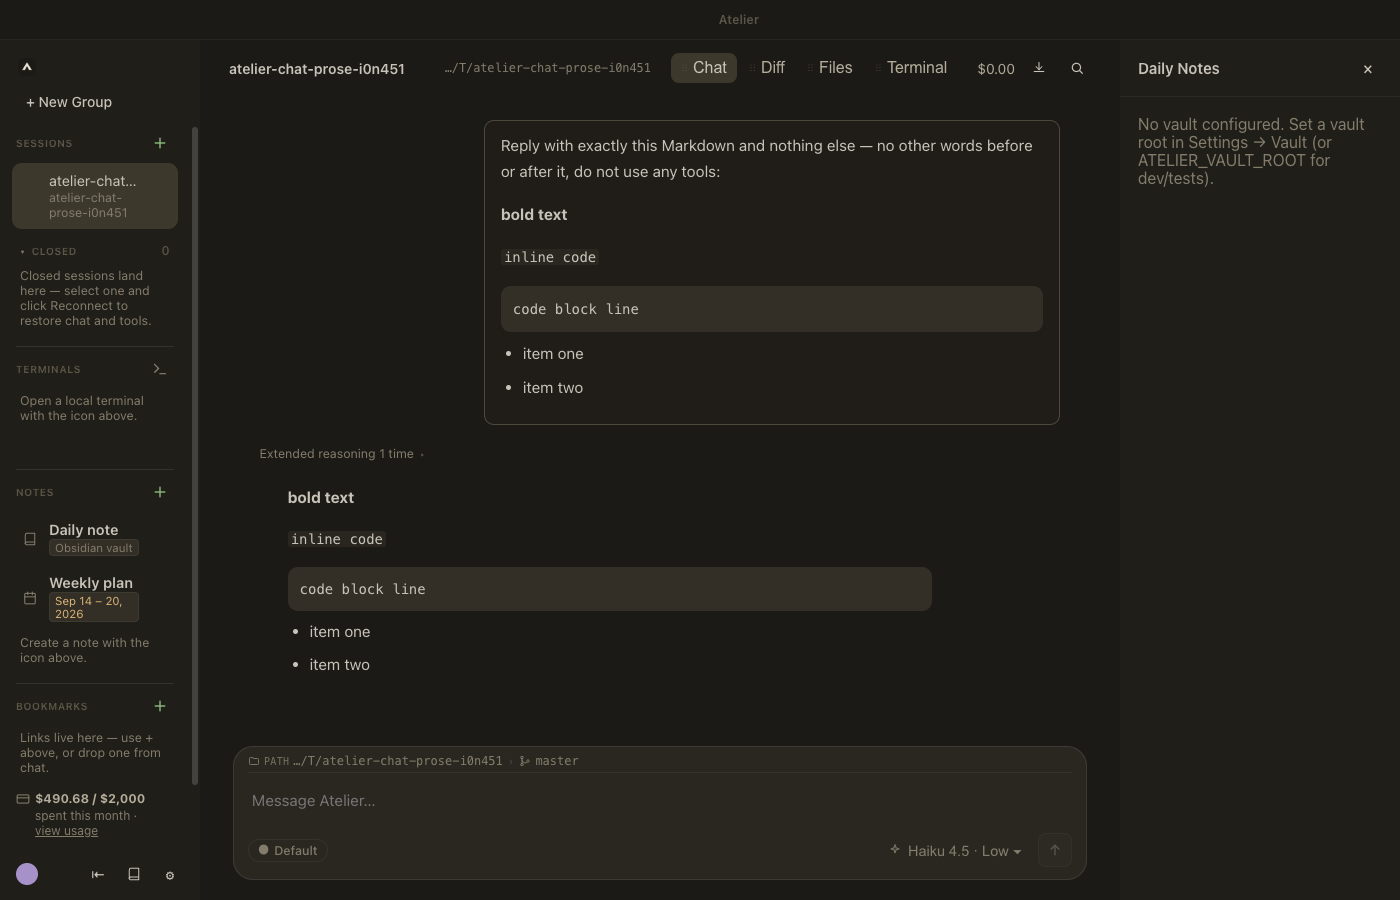
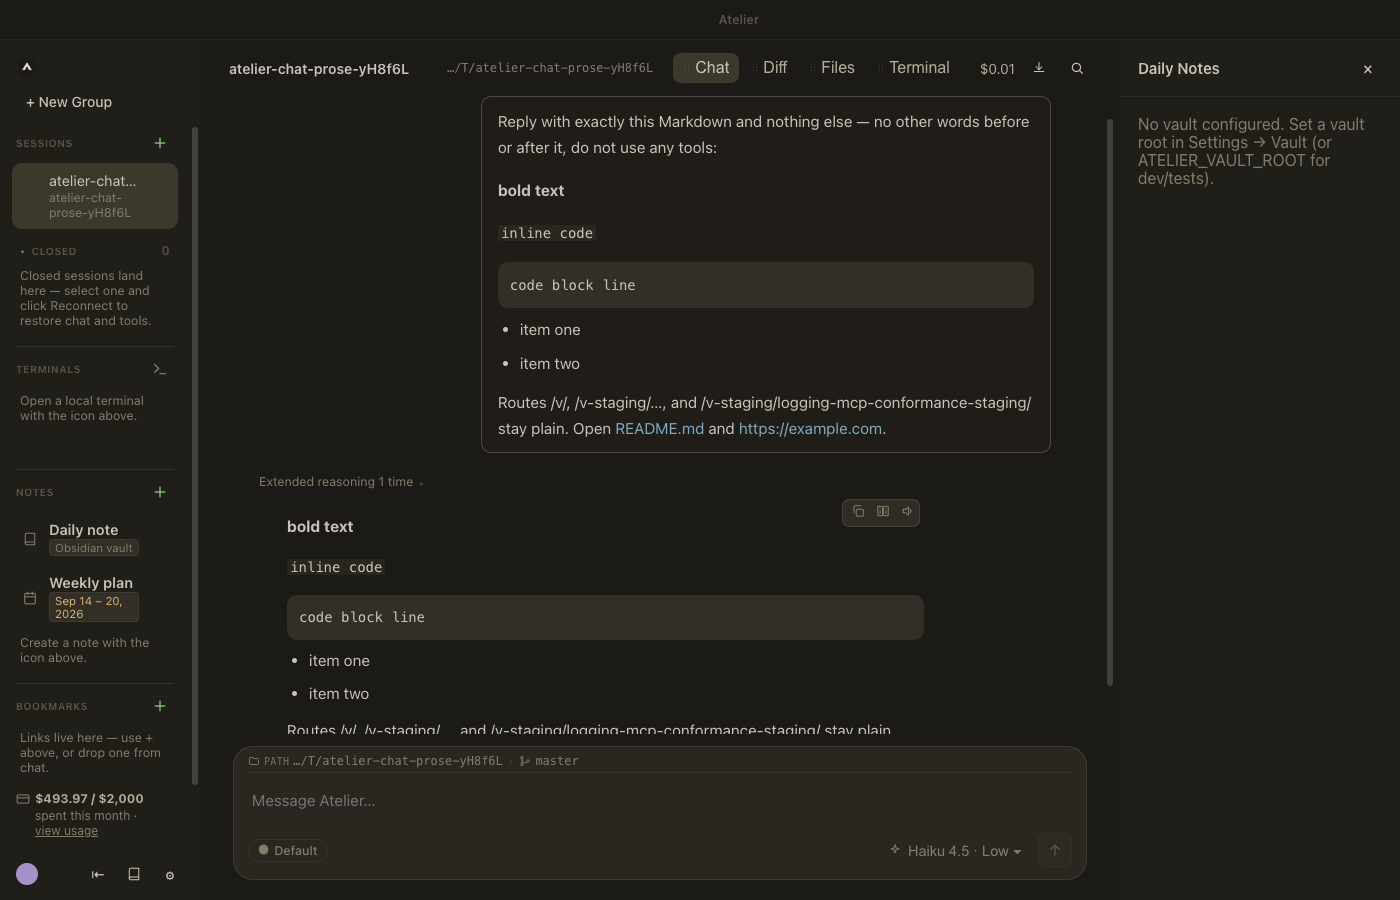
Link only openable files and web URLs in chat, in blue.
Route fragments like /v-staging were treated as workspace paths and rendered as green file links. Require a resolvable inventory path (or a home/absolute file with an extension) before linking, keep http(s) URLs, and style those links with --info plus hover underline.

diff --git a/src/renderer/src/components/chat/file-path-links.ts b/src/renderer/src/components/chat/file-path-links.ts
@@ -72,9 +72,17 @@ export function sessionFileLinkWorkspaceRoot(session: {
   return session.worktreePath ?? session.projectPath
 }
 
+type CandidateTreeNode = {
+  path: string
+  relativePath: string
+  type: 'file' | 'dir'
+  children?: readonly CandidateTreeNode[]
+}
+
 export function collectFilePathCandidates(sources: {
   capPaths?: readonly string[]
   filesList?: readonly { path: string; relativePath: string }[]
+  filesTree?: readonly CandidateTreeNode[]
   diffPaths?: readonly string[]
 }): string[] {
   const out: string[] = []
@@ -90,6 +98,16 @@ export function collectFilePathCandidates(sources: {
     add(e.path)
     add(e.relativePath)
   }
+  const addTreeFiles = (nodes: readonly CandidateTreeNode[]): void => {
+    for (const node of nodes) {
+      if (node.type === 'file') {
+        add(node.path)
+        add(node.relativePath)
+      }
+      if (node.children?.length) addTreeFiles(node.children)
+    }
+  }
+  addTreeFiles(sources.filesTree ?? [])
   for (const p of sources.diffPaths ?? []) add(p)
   return out
 }
@@ -137,6 +155,42 @@ export function resolveSessionFilePath(
     if (match) return joinToWorkspaceRoot(match, workspaceRoot)
   }
   return joinToWorkspaceRoot(trimmed, workspaceRoot)
+}
+
+function normalizeComparablePath(path: string): string {
+  return path.replace(/\\/g, '/').replace(/\/+$/, '').replace(/^\.\//, '')
+}
+
+/**
+ * Resolve a file mention only when the session's real file inventory proves
+ * the target exists. Deriving every slash-prefixed string from the workspace
+ * root turns URL routes such as `/v-staging/dashboard/` into fake file links.
+ */
+export function resolveKnownSessionFilePath(
+  raw: string,
+  workspaceRoot: string,
+  projectRoot: string,
+  candidates?: readonly string[]
+): string | null {
+  const resolved = resolveSessionFilePath(raw, workspaceRoot, projectRoot, candidates)
+  if (!resolved) return null
+  const trimmed = raw.trim()
+  // A home/absolute path with a recognized file extension already carries
+  // enough information for Files to open it, including paths outside the
+  // workspace inventory. Extensionless absolute strings remain untrusted:
+  // they are commonly application routes (`/v-staging/dashboard/`).
+  if ((trimmed.startsWith('~') || trimmed.startsWith('/')) && SOURCE_EXT.test(trimmed)) {
+    return resolved
+  }
+  if (!candidates?.length) return null
+  const target = normalizeComparablePath(resolved)
+  const existsInInventory = candidates.some((candidate) => {
+    const candidatePath = isAbsoluteFilePath(candidate)
+      ? candidate
+      : joinToWorkspaceRoot(candidate, workspaceRoot)
+    return normalizeComparablePath(candidatePath) === target
+  })
+  return existsInInventory ? resolved : null
 }
 
 function isInsideMarkdownLink(whole: string, offset: number, matchEnd: number): boolean {
@@ -192,7 +246,7 @@ function tryLinkPath(
   if (whole.slice(offset + matchLen).startsWith('](')) return path
   if (!path.includes('/') && isFilenameBasenameOfLongerPath(whole, offset)) return path
   if (!looksLikeFilePath(path)) return path
-  const resolved = resolveSessionFilePath(path, workspaceRoot, projectRoot, candidates)
+  const resolved = resolveKnownSessionFilePath(path, workspaceRoot, projectRoot, candidates)
   if (!resolved) return path
   return `[${path}](${ATELIER_FILE_SCHEME}${encodeURIComponent(resolved)})`
 }

diff --git a/src/renderer/src/components/chat/MarkdownMessage.tsx b/src/renderer/src/components/chat/MarkdownMessage.tsx
@@ -1,5 +1,5 @@
 import { useCallback, useMemo, useState, type ReactNode } from 'react'
-import ReactMarkdown, { type Components } from 'react-markdown'
+import ReactMarkdown, { defaultUrlTransform, type Components } from 'react-markdown'
 import remarkGfm from 'remark-gfm'
 import type {
   CreateSessionBookmarkInput,
@@ -13,7 +13,7 @@ import {
   hrefToAtelierFilePath,
   linkifyFilePathsInMarkdown,
   looksLikeFilePath,
-  resolveSessionFilePath
+  resolveKnownSessionFilePath
 } from './file-path-links'
 import ChatBookmarkContextMenu, {
   type ChatBookmarkMenuState
@@ -75,12 +75,23 @@ export function createMarkdownComponents(options: MarkdownLinkOptions = {}): Com
 
   return {
     a: ({ href, children, ...props }) => {
-      const filePath = href ? hrefToAtelierFilePath(href) : null
+      const encodedFilePath = href ? hrefToAtelierFilePath(href) : null
+      const filePath =
+        encodedFilePath ??
+        (href && looksLikeFilePath(href)
+          ? resolveKnownSessionFilePath(
+              href,
+              workspaceRoot,
+              projectRoot,
+              filePathCandidates
+            )
+          : null)
       if (filePath && onOpenFileInFiles) {
+        const fileHref = `${ATELIER_FILE_SCHEME}${encodeURIComponent(filePath)}`
         return (
           <a
             {...props}
-            href={href}
+            href={fileHref}
             data-testid="msg-file-link"
             onContextMenu={(e) => {
               if (!onBookmarkRequest) return
@@ -102,6 +113,7 @@ export function createMarkdownComponents(options: MarkdownLinkOptions = {}): Com
           </a>
         )
       }
+      if (!href || !/^https?:\/\//i.test(href)) return <>{children}</>
       return (
         <a
           {...props}
@@ -147,7 +159,12 @@ export function createMarkdownComponents(options: MarkdownLinkOptions = {}): Com
         )
       }
       const text = String(children).replace(/\n$/, '')
-      const resolved = resolveSessionFilePath(text, workspaceRoot, projectRoot, filePathCandidates)
+      const resolved = resolveKnownSessionFilePath(
+        text,
+        workspaceRoot,
+        projectRoot,
+        filePathCandidates
+      )
       if (!resolved || !looksLikeFilePath(text)) {
         return (
           <code className={className} {...props}>
@@ -238,7 +255,13 @@ export default function MarkdownMessage({
   return (
     <>
       <div className="md-body">
-        <ReactMarkdown remarkPlugins={[remarkGfm]} components={components}>
+        <ReactMarkdown
+          remarkPlugins={[remarkGfm]}
+          components={components}
+          urlTransform={(url) =>
+            url.startsWith(ATELIER_FILE_SCHEME) ? url : defaultUrlTransform(url)
+          }
+        >
           {processed}
         </ReactMarkdown>
       </div>

diff --git a/e2e/ui-chat-transcript-typography.spec.ts b/e2e/ui-chat-transcript-typography.spec.ts
@@ -114,7 +114,9 @@ test('chat prose, user input, and margins use a calm responsive rhythm', async (
         '**bold text**\n\n' +
         '`inline code`\n\n' +
         '```\ncode block line\n```\n\n' +
-        '- item one\n- item two'
+        '- item one\n- item two\n\n' +
+        'Routes /v/, /v-staging/…, and /v-staging/logging-mcp-conformance-staging/ stay plain. ' +
+        'Open README.md and https://example.com.'
     )
     await expect(composerMarkdown.locator('.cm-atomic-strong')).toContainText('bold text')
     await expect(composerMarkdown.locator('.cm-atomic-list-marker').first()).toBeVisible()
@@ -130,6 +132,26 @@ test('chat prose, user input, and margins use a calm responsive rhythm', async (
     await expect(assistantMsg.locator('strong')).toHaveText('bold text', { timeout: 30_000 })
     await expect(assistantMsg.locator('code:not(pre code)')).toHaveText('inline code')
     await expect(assistantMsg.locator('ul li')).toHaveCount(2)
+    await expect(page.getByTestId('send-button')).toBeVisible({ timeout: 60_000 })
+    const mainLogAfterLinkResponse = readFileSync(join(userDataDir, 'logs', 'main.log'), 'utf8')
+    expect(mainLogAfterLinkResponse).toContain('session:sendMessage invoked')
+    expect(mainLogAfterLinkResponse).toContain('harness event: result (turn complete)')
+
+    const anchors = assistantMsg.locator('a')
+    const linkedTexts = await anchors.allTextContents()
+    expect(linkedTexts.filter((text) => text.startsWith('/v'))).toEqual([])
+    const fileLink = assistantMsg.getByTestId('msg-file-link').filter({ hasText: 'README.md' })
+    const webLink = assistantMsg.getByTestId('external-link').filter({ hasText: 'https://example.com' })
+    await expect(fileLink).toHaveCount(1)
+    await expect(webLink).toHaveCount(1)
+    for (const link of [fileLink, webLink]) {
+      await expect(link).toHaveCSS('color', 'rgb(127, 168, 193)')
+      await expect(link).toHaveCSS('font-weight', '400')
+      await expect(link).toHaveCSS('text-decoration-line', 'none')
+      await link.hover()
+      await expect(link).toHaveCSS('text-decoration-line', 'underline')
+    }
+    await page.screenshot({ path: join(artifactsDir, 'chat-file-and-web-links-after.png') })
 
     const prose = await assistantMsg.evaluate((el) => {
       const cs = getComputedStyle(el)

diff --git a/e2e/chat-surface-core.spec.ts b/e2e/chat-surface-core.spec.ts
@@ -1,7 +1,7 @@
 import { test, expect, _electron as electron, type ElectronApplication, type Page } from '@playwright/test'
 import { e2eConfigPath as configPath, seedE2eConfig, seedSkipOnboarding } from './e2e-config'
 import { mkdtempSync, mkdirSync, writeFileSync } from 'node:fs'
-import { tmpdir } from 'node:os'
+import { homedir, tmpdir } from 'node:os'
 import { join } from 'node:path'
 
 const projectRoot = join(__dirname, '..')
@@ -734,7 +734,7 @@ test.describe('03-chat-surface-core', () => {
     await fileLink.click()
 
     await expect(page.getByTestId('files-panel-active')).toBeVisible({ timeout: 10_000 })
-    await expect(page.getByTestId('files-location-input')).toHaveValue('~/.mcp.json')
+    await expect(page.getByTestId('files-location-input')).toHaveValue(join(homedir(), '.mcp.json'))
   })
 
   test('assistant file paths open Files directly, but bookmarked files open the review panel', async ({}, testInfo) => {
@@ -749,15 +749,19 @@ test.describe('03-chat-surface-core', () => {
     await page.getByTestId('send-button').click()
     await expect(page.getByTestId('stop-button')).toBeVisible({ timeout: 5_000 })
     const assistantMsg = page.locator('.msg-assistant[data-testid="transcript-message"]').last()
+    const fileLink = page
+      .locator('.msg-assistant[data-testid="transcript-message"]')
+      .getByTestId('msg-file-link')
+      .filter({ hasText: targetFile })
+      .last()
     await waitForCondition(
       page,
-      async () => assistantMsg.locator('[data-testid="msg-file-link"]').count().then((count) => count > 0),
+      async () => fileLink.count().then((count) => count > 0),
       60_000
     )
     await waitForTurnIdle(page, 60_000)
     await expect(assistantMsg).toBeVisible({ timeout: 30_000 })
 
-    const fileLink = assistantMsg.locator('[data-testid="msg-file-link"]').first()
     await expect(fileLink).toHaveText(targetFile, { timeout: 30_000 })
     await fileLink.click({ button: 'right' })
     await expect(page.getByTestId('chat-bookmark-toggle')).toHaveText('Bookmark')

diff --git a/Features/UI-Design/mocks/index.html b/Features/UI-Design/mocks/index.html
@@ -334,9 +334,10 @@
   .msg-assistant .md-body :where(li + li), .plan-body .md-body :where(li + li) { margin-top: 8px; }
   .msg-assistant .md-body :where(code), .plan-body .md-body :where(code) { font-family: var(--font-mono); background: color-mix(in srgb, var(--bg-tint) 55%, transparent); border-radius: 3px; padding: 0 3px; font-size: 0.9em; }
   .msg-assistant .md-body :where(hr), .plan-body .md-body :where(hr) { border: none; border-top: 1px solid var(--border-subtle); margin: 8px 0; }
-  .msg-assistant .md-body a.md-link {
-    color: var(--info, #7fa8c1); text-decoration: underline; text-underline-offset: 2px;
+  :is(.msg-assistant, .msg-user) .md-body a, .plan-body .md-body a {
+    color: var(--info, #7fa8c1); font-weight: 400; text-decoration: none; text-underline-offset: 2px;
   }
+  :is(.msg-assistant, .msg-user) .md-body a:hover, .plan-body .md-body a:hover { text-decoration: underline; }
   .compaction-banner { align-self: center; font-size: 12.5px; color: var(--text-tertiary); background: var(--bg-panel-raised); border: 1px solid var(--border-subtle); border-radius: 100px; padding: 4px 12px; }
 
   /* Tool call ("code card"): a tinted strip with a colored left accent rule, no border box and

diff --git a/src/renderer/src/styles/global.css b/src/renderer/src/styles/global.css
@@ -1396,7 +1396,14 @@ input[type='range'] {
   border-radius: 0;
   font-size: 0.9em;
 }
-:is(.msg-assistant, .msg-user) .md-body :where(a), .plan-body .md-body :where(a) { color: var(--accent); cursor: pointer; }
+:is(.msg-assistant, .msg-user) .md-body :where(a), .plan-body .md-body :where(a) {
+  color: var(--info);
+  cursor: pointer;
+  font-weight: 400;
+  text-decoration: none;
+}
+:is(.msg-assistant, .msg-user) .md-body :where(a):hover,
+.plan-body .md-body :where(a):hover { text-decoration: underline; }
 :is(.msg-assistant, .msg-user) .md-body a[draggable='true']:active { cursor: grabbing; }
 :is(.msg-assistant, .msg-user) .md-body :where(blockquote), .plan-body .md-body :where(blockquote) {
   margin: 0 0 8px;

diff --git a/src/renderer/src/App.tsx b/src/renderer/src/App.tsx
@@ -90,6 +90,7 @@ function filePathCandidatesForSession(ws: SessionWorkspacePayload | undefined): 
   return collectFilePathCandidates({
     capPaths: ws.sessionChangesCap.items.filter((i) => i.kind === 'file').map((i) => i.path),
     filesList: ws.filesList ?? undefined,
+    filesTree: ws.filesTree ?? undefined,
     diffPaths: ws.diff.files.map((f) => f.path)
   })
 }

diff --git a/Features/chat-transcript-typography/spec.md b/Features/chat-transcript-typography/spec.md
@@ -25,6 +25,29 @@ must remain inside the visible textarea bounds at the active selection.
 Its height must match the 15.5px input font (`1em`), centered within the 1.7
 line box; using the full line-height makes the cursor visibly oversized.
 
+## Regression: route text is mistaken for file links
+
+The supplied screenshot shows URL-route fragments such as `/v/`,
+`/v-staging/…`, and `/v-staging/logging-mcp-conformance-staging/` rendered as
+green links even though they are neither web URLs nor files known to the
+session workspace.
+
+Expected user flow:
+
+1. The user reads an assistant response containing route fragments, a known
+   workspace file, and an `http(s)` URL.
+2. Route fragments remain ordinary body text and do nothing when clicked.
+3. A file mention becomes a link only when the session file inventory can
+   resolve it to an openable full path.
+4. Explicit Markdown and bare `http(s)` web links remain links.
+5. File and web links use the existing blue `--info` token at normal font
+   weight and gain an underline only on hover. They do not use green accent
+   color or bold text.
+
+The mock's global `a` rule currently uses green `--accent`; update it and the
+chat `.md-body a` rule to blue `--info`, preserving the existing hover
+underline. No new link component or visual treatment is introduced.
+
 ## User flow
 
 1. The user opens a chat session and reads an assistant reply that has
@@ -66,6 +89,7 @@ Reuse the existing `.msg-assistant` / `.md-body` selectors in
 | User input | right-aligned, 15.5px/1.7, assistant Markdown rhythm, `color-mix(in srgb, var(--bg-panel) 25%, var(--bg-app))`, border `color-mix(in srgb, var(--text-disabled) 70%, var(--bg-panel))`, 10px radius |
 | Composer Markdown | Notes' `AtomicCodeMirrorEditor`, themed into the existing composer and capped at the existing 160px auto-grow height |
 | Transcript margins | `clamp(20px, 6%, 64px)` horizontal padding |
+| File and web links | `--info`, inherited font weight, no resting underline; underline on hover |
 
 The mock does not cover Markdown composition. The chosen treatment reuses the
 Notes inline editor inside the existing composer box, without adding a panel
@@ -96,3 +120,12 @@ or mode toggle. Tool cards and all non-input composer chrome are unchanged.
 - [ ] Screenshot `e2e-artifacts/ui-composer-inline-markdown.png` personally
       viewed: the textarea remains editable while inactive Markdown lines
       render with the same Notes-style inline treatment.
+- [ ] A real assistant response containing `/v/`, `/v-staging/…`, and
+      `/v-staging/logging-mcp-conformance-staging/` renders those fragments
+      as plain text while linking known `README.md` and
+      `https://example.com`.
+- [ ] File and web links compute to `--info`, normal font weight, no resting
+      underline, and underline on hover.
+- [ ] The supplied screenshot and the initial failing E2E screenshot capture
+      the broken state; corrected `chat-file-and-web-links-after.png` is
+      personally compared against them.
